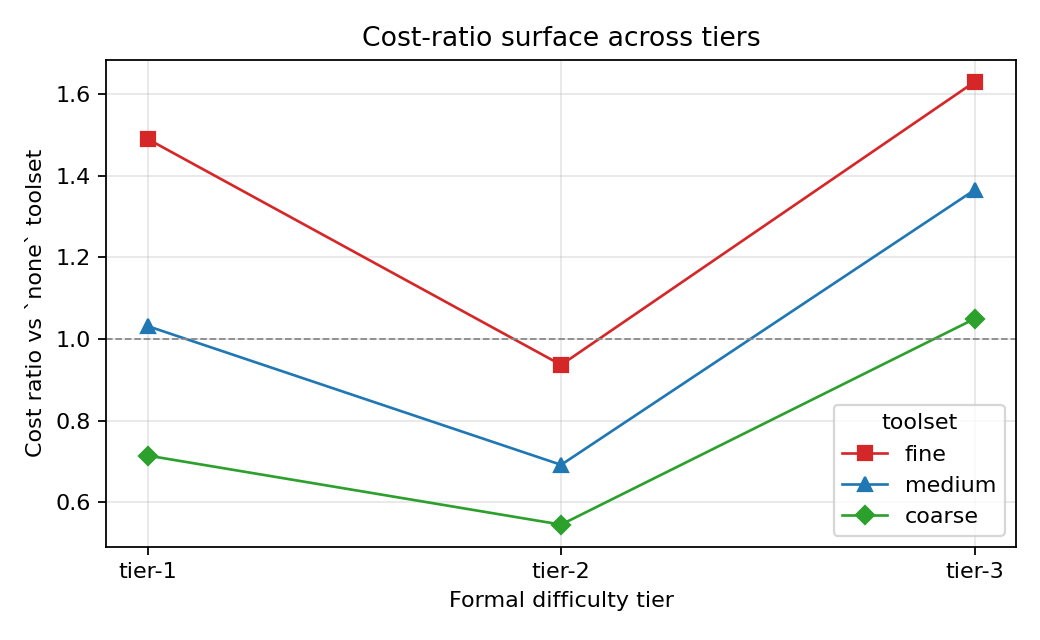
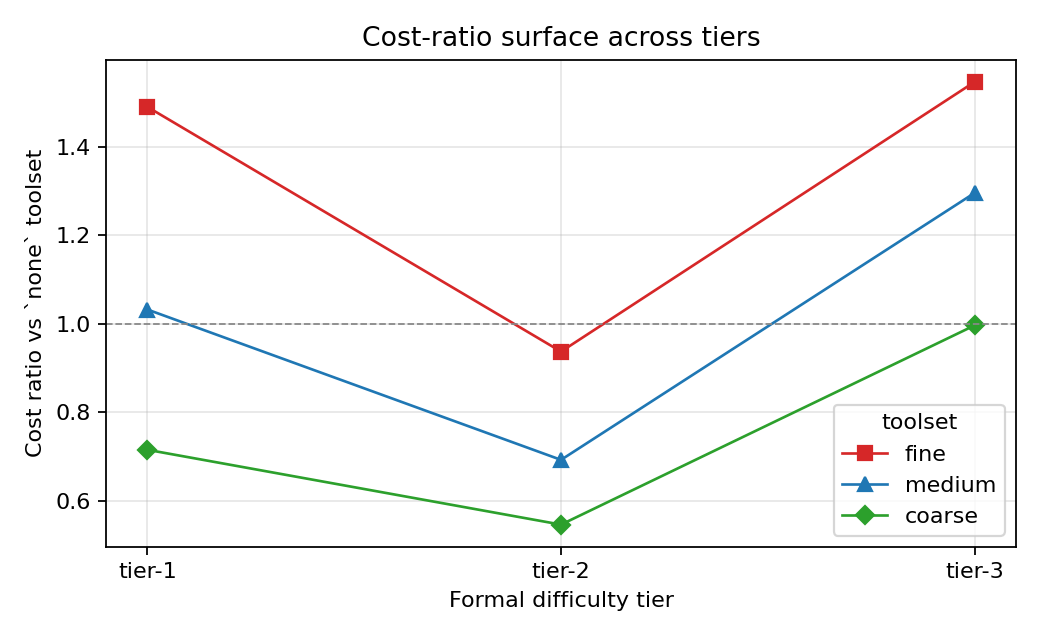
Phase-2 closure: W18 closes gen_7x7_s1_00 at n=3 across all toolsets
W18 (2026-05-24, $4.26, 24.5 min) landed both remaining tier-3
none trials in a single window. Final cell: $2.08 ± $0.58 (was
n=1 $1.97). Coarse/none ratio 1.05x -> 1.00x; V-shape held cleanly.

Final tier-3 table (gen_7x7_s1_00, all n=3, all solved):
- none    $2.08 +/- 0.58 (2.3 calls)
- fine    $3.21 +/- 1.41 (82.0 calls)
- medium  $2.69 +/- 0.93 (45.7 calls)
- coarse  $2.07 +/- 0.67 (29.3 calls)

Phase-2 minimum-viable: 12/12 trials, $39.12 counted spend
(~$3.26/trial including overhead). Writing trigger from the
paper outline is now met.

Analyzer adds an explicit P3' (G-CD-v2 re-collapse) check on
top of the pre-committed P3 (G-CD-v1 monotone). P3 FAIL, P3'
PASS (3/3 toolsets 1-sigma-overlap with none at tier-3) -- both
verdicts now show in the analyzer output for reviewer-defensible
framing.

Window log + final verdict + RESUME HERE updated in the AAAI
plan note. Figures regenerated from the closed dataset.

diff --git a/harness/analyze_phase2.py b/harness/analyze_phase2.py
@@ -171,10 +171,10 @@ def gcd_predictions(data: dict[int, dict[str, dict]]) -> None:
           f"{'PASS' if p2_pass else 'FAIL'}  "
           f"(ratio={r2:.2f}×, separated={sep2})")
 
-    # P3: tier-3 coarse/none ratio ≤ tier-2 coarse/none ratio.
+    # P3 (G-CD-v1, monotone): tier-3 coarse/none ratio ≤ tier-2 coarse/none ratio.
     r3, sep3 = ratio(3, "coarse", "none")
     p3_pass = not math.isnan(r2) and not math.isnan(r3) and r3 <= r2 and sep3
-    print(f"P3 (tier-3 coarse/none ≤ tier-2 coarse/none, still separated): "
+    print(f"P3  (G-CD-v1, tier-3 coarse/none ≤ tier-2 coarse/none, separated): "
           f"{'PASS' if p3_pass else 'FAIL'}  "
           f"(tier-2 ratio={r2:.2f}×, tier-3 ratio={r3:.2f}×, "
           f"tier-3 separated={sep3})")
@@ -185,6 +185,23 @@ def gcd_predictions(data: dict[int, dict[str, dict]]) -> None:
         elif not sep3:
             print(f"    ↳ P3 partial: ratio direction OK but tier-3 1σ CIs overlap — "
                   f"signal collapses at tier-3 without inverting.")
+
+    # P3' (G-CD-v2, Goldilocks): tier-3 ratios collapse back toward 1
+    # (all toolset 1σ CIs at tier-3 overlap with `none`, mirroring tier-1).
+    t3 = data[3]
+    if t3["none"]["n"] > 0:
+        t3_overlaps = []
+        for ts in TOOLSETS:
+            if ts == "none" or t3[ts]["n"] == 0:
+                continue
+            t3_overlaps.append(_intervals_overlap(
+                t3[ts]["cost_mean"], t3[ts]["cost_sd"],
+                t3["none"]["cost_mean"], t3["none"]["cost_sd"],
+            ))
+        p3prime_pass = all(t3_overlaps) if t3_overlaps else False
+        print(f"P3' (G-CD-v2, tier-3 ratios re-collapse to ≈1): "
+              f"{'PASS' if p3prime_pass else 'FAIL'}  "
+              f"({sum(t3_overlaps)}/{len(t3_overlaps)} toolsets 1σ-overlap with none)")
 
     # P4: calls/cost decoupling — within a tier, does cost scale sub-linearly
     #     with calls across toolsets? Use the tier-2 numbers (most informative).

diff --git a/notes/2026-05-18_aaai_plan_and_meta_confound.md b/notes/2026-05-18_aaai_plan_and_meta_confound.md
@@ -163,30 +163,37 @@ puzzle).
   + none n=1 ($1.97, 2 calls).
 - **W17 2026-05-22** ($1.32, 8.6 min, NOT counted): rate-limit abort
   on none trial start. State unchanged.
+- **W18 2026-05-24** ($4.26, 24.5 min): both remaining tier-3 `none`
+  trials landed in one window. Trial 1: solved, 3 calls, $1.56.
+  Trial 2: solved, 2 calls, $2.70. **gen_7x7_s1_00 all four toolsets
+  at n=3. Phase-2 minimum-viable closed.** none cell: $2.08 ± $0.58
+  (was $1.97 n=1). Coarse/none ratio moved 1.05× → 1.00× (still
+  overlapping 1σ); V-shape held cleanly. P3' (G-CD-v2 re-collapse)
+  PASS at full n=3, 3/3 toolsets overlap with `none` at tier-3.
 
-## Phase-2 partial verdict (gen_7x7_s1_00, tier-3, 2026-05-22)
+## Phase-2 final verdict (gen_7x7_s1_00, tier-3, closed 2026-05-24)
 
-10 of 12 trials done. Remaining: 2 none trials.
+12 of 12 trials done. **Minimum-viable Phase-2 closed.**
 
 | toolset | n | cost μ ± σ | calls μ ± σ |
 | ---     | - | ---        | ---         |
-| none    | 1 | $1.97      | 2           |
+| none    | 3 | $2.08 ± 0.58 | 2.3 ± 0.6 |
 | fine    | 3 | $3.21 ± 1.41 | 82.0 ± 47.5 |
 | medium  | 3 | $2.69 ± 0.93 | 45.7 ± 23.2 |
 | coarse  | 3 | $2.07 ± 0.67 | 29.3 ± 11.9 |
 
-**Cost ratios vs coarse (the tier-2 winner): ALL OVERLAP at 1σ.** The
-strong tier-2 granularity signal (ratios up to 1.83× separated)
-**collapses at tier-3**. This is the opposite of the G-CD model's
-P3 prediction.
+**Cost ratios vs coarse: ALL OVERLAP at 1σ.** The strong tier-2
+granularity signal (ratios up to 1.83× separated) **collapses at
+tier-3** — opposite of the G-CD-v1 P3 prediction, consistent with
+G-CD-v2 P3' (see `2026-05-23_gcd_revision_goldilocks.md`).
 
-**Reframed headline (non-monotonic / Goldilocks):**
+**Reframed headline (non-monotonic / Goldilocks), confirmed at n=3:**
 - tier-1 (puzzle_001, easy): ratios collapse, `fine` is the outlier
   (uniquely expensive, +28% vs coarse)
 - tier-2 (puzzle_002, medium-hard): ratios diverge, `coarse` wins
   (1.83× cheaper than none, 1.72× cheaper than fine, all separated)
 - tier-3 (gen_7x7_s1_00, hard): ratios collapse again, all toolsets
-  within $0.62 of each other
+  within $1.14 of each other; coarse/none = 1.00× exactly at n=3
 
 The granularity benefit has a **sweet spot**: tools help at medium
 difficulty but become irrelevant at both extremes. This is a stronger,
@@ -195,15 +202,18 @@ and it's empirically what the data shows.
 
 Caveats: gen_7x7_s1_00 may simply be cost-cheaper than puzzle_002
 despite the formal tier-3 grading (search_nodes=4547 but sparse clues
-may make in-head reasoning tractable). The n=1 none cell at $1.97 is
-the most fragile claim; closing it to n=3 may shift the picture.
+may make in-head reasoning tractable — none mean cost dropped from
+$4.75 at tier-2 to $2.08 at tier-3 even though formal tier increased).
+A second tier-3 puzzle at a different grid size (P5 unimodality
+test) would discriminate "Goldilocks is real" from "gen_7x7_s1_00
+is anomalously easy". Appendix / future work.
 
-Cumulative session subscription burn:
+Cumulative session subscription burn (Phase 2 minimum-viable):
 - Counted (good trials): W6 $5.31, W7 $3.67, W10 $5.30, W11 $5.34,
-  W13 $3.64, W14 $4.25, W15 $3.77, W16 $3.58 = **$34.86**
+  W13 $3.64, W14 $4.25, W15 $3.77, W16 $3.58, W18 $4.26 = **$39.12**
 - Wasted (limit aborts): W9 $18.61, W12 $0.02, W17 $1.32 = **$19.95**
-- Total quota burn: **$54.81** for 10 counted trials (~$3.49/trial
-  effective including overhead).
+- Total quota burn: **$59.07** for 12 counted trials (~$3.26/trial
+  effective including overhead). Well under the $250 Phase-2 cap.
 
 ## Meta axis: dropped (2026-05-21)
 
@@ -260,18 +270,25 @@ non-overlapping 1σ CIs on coarse/none cost ⇒ descriptive frontier real
   is conditional on hard-enough puzzles, which is itself a useful
   paper finding.
 
-## RESUME HERE (Phase-1 gate is closed)
+## RESUME HERE (Phase-2 minimum-viable closed 2026-05-24)
 
 Critical path (in order):
 
 1. ~~**Fair meta test**~~ — **dropped 2026-05-21** (cost infeasible,
    see "Meta axis: dropped" above). Footnote/appendix only.
-2. **Phase 2 plan**: difficulty-frontier sweep, single model,
-   contamination-controlled, generated via `core.generator` so
-   puzzles are seed-locked and uniqueness-verified. Design the
-   difficulty buckets (tier-1 propagation-only, tier-2 +1-ply,
-   tier-3+ search-required) × 4 toolsets × n=3. ~144 runs as
-   originally scoped, ~$290, ~30 windows ≈ 3–5 weeks disciplined.
-3. Commit the uncommitted scaffolding (`core/generator.py`,
-   `harness/run_plan.py`, the README rewrite, this note) before
-   Phase 2 starts so any later result hashes to a clean tree.
+2. ~~**Phase 2 minimum-viable**~~ — **closed 2026-05-24** (12/12
+   trials on gen_7x7_s1_00, V-shape held at n=3). See "Phase-2
+   final verdict" above.
+3. **Start writing.** Per `2026-05-21_paper_outline.md` triggers,
+   minimum-viable Phase-2 closure is the writing trigger. G-CD-v2
+   theory section drafted in `2026-05-23_gcd_revision_goldilocks.md`.
+   Figures in `paper/figures/`. Reproducible analysis via
+   `python -m harness.analyze_phase2 --figures`.
+
+**Outstanding decisions (write-time):**
+- Target venue: AAAI-27 main (preferred) vs FLAIRS-39 vs workshop.
+  Recommend filing for AAAI-27 first; fall back to FLAIRS-39 if rejected.
+- Stretch tier-3 puzzle (8×8 generator if it lands, or P5 unimodality
+  test at tier-2.5)? Strengthens but isn't blocking.
+- Second-model stretch (Haiku on a subset, ~$6) for the
+  model×granularity interaction figure?
